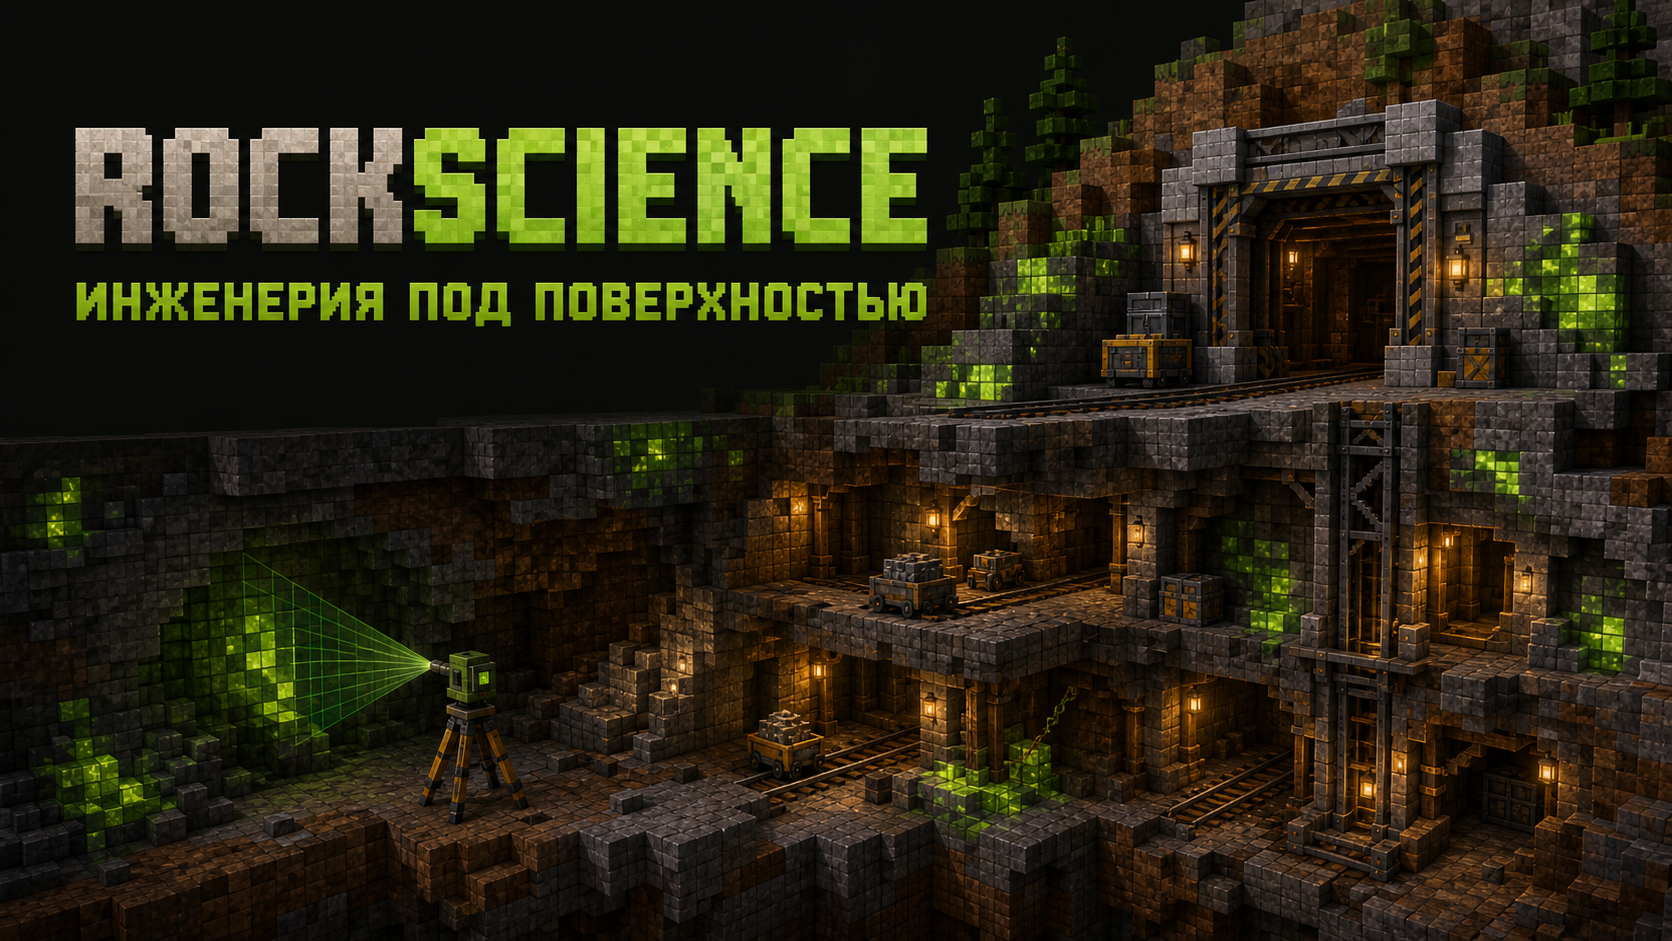
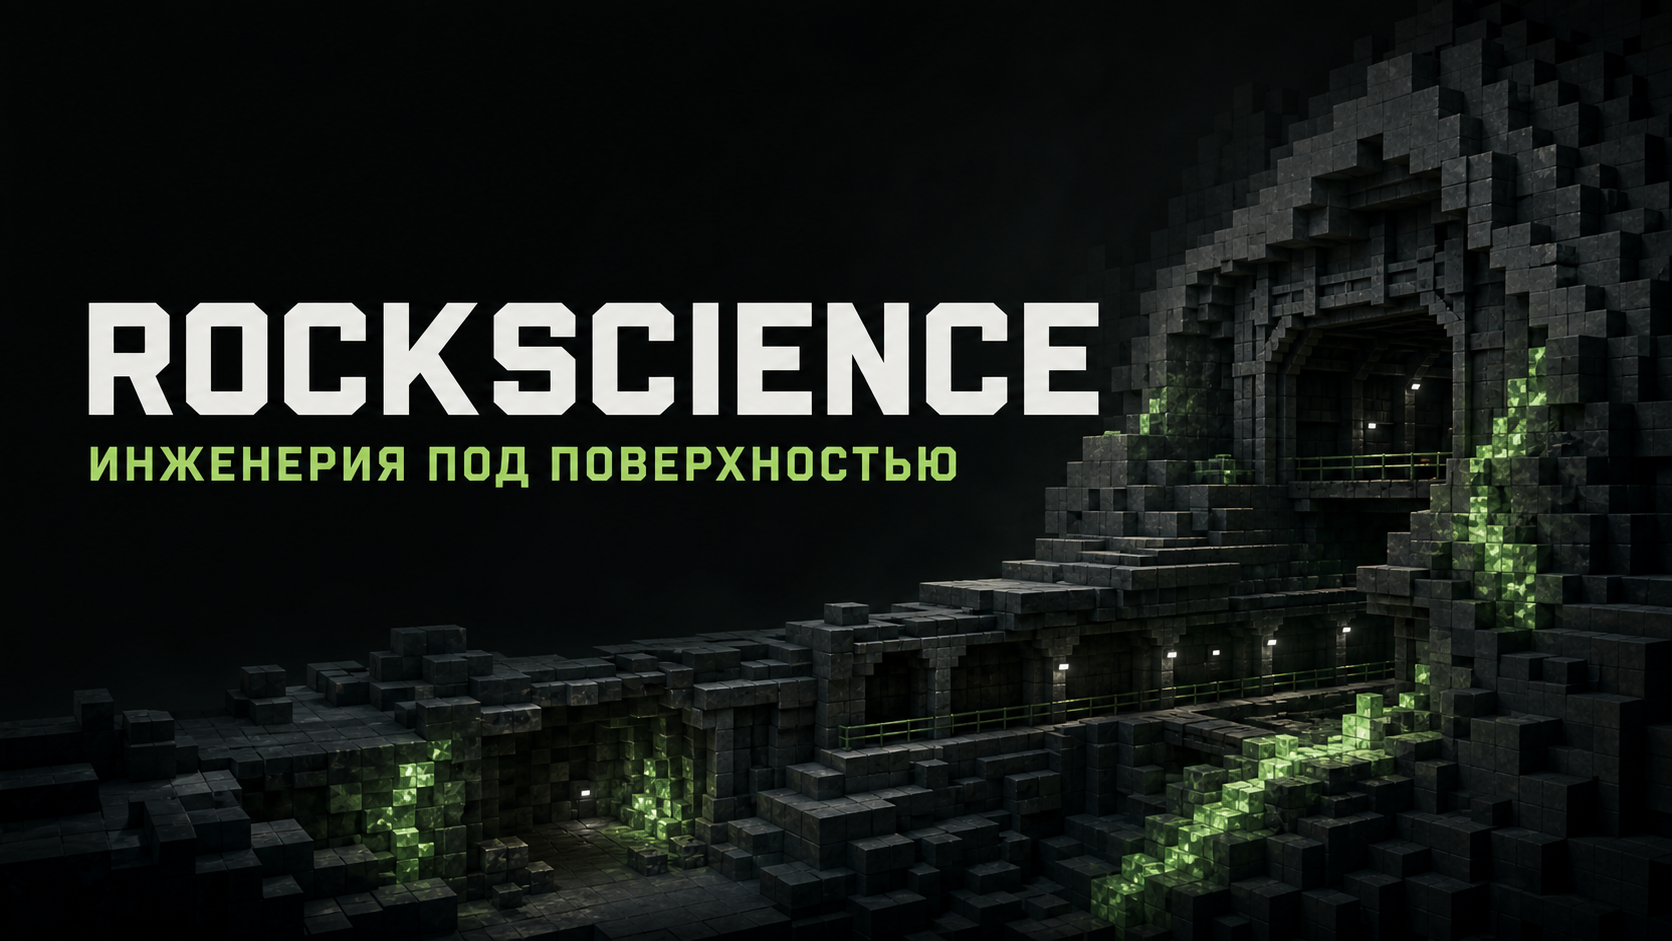
Refine RockScience dark interface

diff --git a/app/globals.css b/app/globals.css
@@ -332,3 +332,180 @@ footer { min-height: 128px; background: #171a15; color: #aeb5aa; border-top: 8px
   .tunnel-rings { width: 320px; height: 320px; }
   .tunnel-rings i { border-width: 8px; }
 }
+
+/* Dark refinement */
+:root {
+  --ink: #f0f4ee;
+  --coal: #090c0a;
+  --paper: #0d110f;
+  --acid: #9bdc68;
+  --grass: #78b84c;
+  --dirt: #2b2923;
+  --stone: #606861;
+  --pixel-shadow: #050706;
+  --line: rgba(226, 236, 228, .1);
+}
+
+body {
+  background-color: var(--paper);
+  background-image:
+    linear-gradient(90deg, rgba(255,255,255,.018) 1px, transparent 1px),
+    linear-gradient(rgba(255,255,255,.018) 1px, transparent 1px);
+  background-size: 40px 40px;
+  color: var(--ink);
+}
+
+.site-header {
+  height: 76px;
+  padding-inline: 5.5vw;
+  background: rgba(8, 11, 9, .78);
+  border-bottom: 1px solid rgba(255,255,255,.1);
+  box-shadow: 0 12px 36px rgba(0,0,0,.18);
+  backdrop-filter: blur(18px);
+}
+.brand { text-shadow: none; }
+.brand-mark { width: 27px; height: 27px; gap: 2px; }
+.brand-mark i { border-width: 0; background: #68716a; box-shadow: inset 1px 1px 0 rgba(255,255,255,.2), inset -1px -1px 0 rgba(0,0,0,.4); }
+.brand-mark i:nth-child(2) { background: var(--acid); box-shadow: inset 1px 1px 0 #d1f3b4, inset -1px -1px 0 #4b812e; }
+.site-header nav { gap: 12px; }
+.site-header nav a { color: #aab3ac; padding: 9px 13px; border: 1px solid transparent; border-radius: 4px; transition: color .2s, background .2s, border-color .2s; }
+.site-header nav a:hover, .site-header nav a:focus-visible { color: #fff; background: rgba(255,255,255,.045); border-color: rgba(255,255,255,.09); }
+.header-cta { padding: 11px 16px; border: 1px solid rgba(155,220,104,.45); border-radius: 4px; background: rgba(155,220,104,.1); color: #c6efa5; box-shadow: none; transition: background .2s, border-color .2s, transform .2s; }
+.header-cta:hover { background: rgba(155,220,104,.17); border-color: rgba(155,220,104,.7); transform: translateY(-1px); }
+
+.hero {
+  background-color: #080b09;
+  background-image:
+    radial-gradient(circle at 72% 38%, rgba(105,139,80,.13), transparent 25%),
+    linear-gradient(90deg, transparent 0 49.8%, rgba(255,255,255,.018) 49.8% 50.2%, transparent 50.2%),
+    linear-gradient(180deg, #101511 0%, #090c0a 66%, #070907 100%);
+  background-size: auto, 72px 72px, auto;
+  border-bottom: 1px solid rgba(255,255,255,.08);
+  box-shadow: none;
+}
+.hero::before {
+  height: 17%;
+  opacity: .48;
+  background: linear-gradient(90deg, #20231f 0 12.5%, #262a25 12.5% 25%, #1c201c 25% 37.5%, #2a2e29 37.5% 50%, #1e221e 50% 62.5%, #272b26 62.5% 75%, #1b1e1b 75% 87.5%, #242824 87.5%);
+  background-size: 160px 80px;
+  border-top: 1px solid rgba(155,220,104,.22);
+}
+.hero-grid { opacity: .08; background-size: 72px 72px; }
+.hero-copy { padding-top: 19vh; }
+.eyebrow { color: #a5afa6; }
+.eyebrow span { width: 8px; height: 8px; border-radius: 1px; box-shadow: 0 0 18px rgba(155,220,104,.7); }
+h1 { font-size: clamp(55px, 6.4vw, 104px); text-shadow: 0 10px 40px rgba(0,0,0,.55); }
+h1 em, h2 em { color: var(--acid); text-shadow: none; }
+.hero-lead {
+  color: #aeb7b0;
+  background: rgba(18, 24, 20, .62);
+  border: 1px solid rgba(255,255,255,.1);
+  border-radius: 6px;
+  box-shadow: 0 18px 60px rgba(0,0,0,.22);
+  backdrop-filter: blur(10px);
+  padding: 17px 19px;
+}
+.button { border: 1px solid transparent; border-radius: 4px; box-shadow: none; }
+.button:hover { transform: translateY(-2px); box-shadow: 0 12px 28px rgba(0,0,0,.28); }
+.button-primary { background: var(--acid); color: #0d1609; }
+.text-link { color: #bec7c0; background: transparent; padding: 10px 0; border: 0; }
+.text-link:hover { color: white; }
+.depth-label { padding: 10px 12px; background: rgba(12,16,13,.55); border: 1px solid rgba(255,255,255,.09); border-radius: 4px; text-shadow: none; color: #778078; backdrop-filter: blur(8px); }
+.coordinate { background: rgba(9,12,10,.7); border: 1px solid rgba(255,255,255,.08); border-radius: 3px; color: #778078; }
+.hero-foot { color: rgba(223,231,225,.45); text-shadow: none; }
+
+.rock-visual { filter: drop-shadow(25px 35px 45px rgba(0,0,0,.55)); opacity: .9; }
+.rock { border-width: 3px; border-color: #697269 #2b302c #242825 #555e56; }
+.rock-back { background-color: #343b35; box-shadow: -118px 58px 0 #272d28, -118px 58px 0 3px #1b1f1c, -59px 116px 0 #424a43, -59px 116px 0 3px #242824; }
+.rock-mid { background-color: #4a524b; box-shadow: 118px 58px 0 #2c332d, 118px 58px 0 3px #1b1e1b, -59px 58px 0 #343b35, -59px 58px 0 3px #1d211e; }
+.rock-front { background-color: #555f56; box-shadow: 118px 0 0 #282f29, 118px 0 0 3px #171a18, 59px -58px 0 #527b3a, 59px -58px 0 3px #28451c; }
+.rock-front::after { opacity: .8; filter: drop-shadow(0 0 8px rgba(155,220,104,.5)); }
+
+.section-pad { border-bottom: 1px solid var(--line); }
+.section-index { color: #6f7a72; }
+.manifesto, .approach, .contact {
+  background-color: #0e1210;
+  background-image: radial-gradient(circle at 15% 25%, rgba(155,220,104,.035), transparent 32%);
+}
+.manifesto-copy > div, .contact-action {
+  background: #151a17;
+  border: 1px solid rgba(255,255,255,.08);
+  border-radius: 7px;
+  box-shadow: 0 22px 70px rgba(0,0,0,.22);
+}
+.manifesto-copy p, .approach-intro > p:last-child, .contact-action > p { color: #98a39b; }
+.manifesto-copy p + p { color: #d8dfda; }
+.manifesto h2 em, .approach h2 em, .contact h2 em { color: var(--acid); }
+
+.services {
+  background-color: #0a0d0b;
+  background-image: linear-gradient(135deg, rgba(255,255,255,.012) 25%, transparent 25%), linear-gradient(315deg, rgba(255,255,255,.009) 25%, transparent 25%);
+  background-size: 40px 40px;
+}
+.service-list { gap: 16px; }
+.service-card, .service-card:first-child {
+  background: linear-gradient(145deg, #171c18, #111512);
+  border: 1px solid rgba(255,255,255,.09);
+  border-radius: 7px;
+  box-shadow: 0 18px 55px rgba(0,0,0,.2);
+  transition: transform .25s, border-color .25s, background .25s, box-shadow .25s;
+}
+.service-card:hover { background: linear-gradient(145deg, #1b251b, #121914); color: white; transform: translateY(-5px); border-color: rgba(155,220,104,.38); box-shadow: 0 26px 70px rgba(0,0,0,.35); }
+.service-number { color: #667068; }
+.service-symbol { background: #0c100d; border: 1px solid rgba(255,255,255,.08); border-radius: 5px; }
+.service-symbol span, .service-card:nth-child(2) .service-symbol span, .service-card:nth-child(3) .service-symbol span { border-width: 2px; border-color: #6b746d #333a35 #2a302c #59635b; background: #414942; box-shadow: inset 4px 4px 0 rgba(255,255,255,.08), inset -4px -4px 0 rgba(0,0,0,.2); }
+.service-symbol span:nth-child(2), .service-card:nth-child(2) .service-symbol span:nth-child(2), .service-card:nth-child(3) .service-symbol span:nth-child(2) { background: #2d342f; }
+.service-symbol span:nth-child(3), .service-card:nth-child(2) .service-symbol span:nth-child(3), .service-card:nth-child(3) .service-symbol span:nth-child(3) { background: var(--acid); border-color: #c9efad #557f39 #42672c #a3d87d; box-shadow: 0 0 20px rgba(155,220,104,.24); }
+.service-card > p { color: #8f9991; }
+.service-card:hover > p { color: #acb6ae; }
+.tags span { color: #949e96; border: 1px solid rgba(255,255,255,.08); border-radius: 3px; background: rgba(255,255,255,.025); box-shadow: none; }
+.service-card:hover .tags span { border-color: rgba(155,220,104,.2); background: rgba(155,220,104,.06); }
+
+.stages {
+  background: #101411;
+  border: 1px solid rgba(255,255,255,.08);
+  border-radius: 7px;
+  box-shadow: 0 22px 70px rgba(0,0,0,.18);
+  padding: 8px 14px;
+}
+.stages li {
+  min-height: 136px;
+  background: transparent;
+  border: 0;
+  border-bottom: 1px solid rgba(255,255,255,.08);
+  margin: 0;
+  padding: 27px 16px;
+}
+.stages li:last-child { border-bottom: 0; }
+.stages li:hover { transform: translateX(4px); background: rgba(155,220,104,.025); }
+.stage-index, .stage-arrow { color: var(--acid); }
+.stages p { color: #8e9991; }
+
+.safety { background: #090c0a; border-bottom: 1px solid var(--line); }
+.safety-visual { background-color: #0e1310; background-image: linear-gradient(90deg, rgba(255,255,255,.015) 50%, transparent 50%), linear-gradient(rgba(0,0,0,.12) 50%, transparent 50%); }
+.tunnel-rings i { border-width: 7px; border-color: #343b35; box-shadow: inset 0 0 0 2px #1b201c, 14px 18px 30px rgba(0,0,0,.25); }
+.tunnel-rings i:nth-child(5) { background: var(--acid); box-shadow: 0 0 0 5px #355525, 0 0 80px rgba(155,220,104,.36); }
+.safety-copy > p:nth-of-type(2) { color: #909b92; }
+.safety-copy ul { border-top: 0; }
+.safety-copy li { margin: 8px 0; padding: 17px 14px; border: 1px solid rgba(255,255,255,.08); border-radius: 4px; background: #101411; box-shadow: none; color: #c1c9c3; }
+
+.contact-action { padding: 28px; }
+.button-dark { background: var(--acid); color: #0c1409; }
+.contact-action small { color: #7c887f; }
+footer { min-height: 112px; background: #080b09; color: #6f7972; border-top: 1px solid rgba(255,255,255,.07); box-shadow: none; }
+
+@media (max-width: 900px) {
+  .service-list { gap: 12px; }
+  .service-card { min-height: 360px; }
+}
+
+@media (max-width: 600px) {
+  .site-header { height: 66px; padding-inline: 20px; }
+  .header-cta { border-color: rgba(155,220,104,.35); }
+  h1 { text-shadow: 0 10px 30px rgba(0,0,0,.55); }
+  .hero-lead { border-radius: 4px; }
+  .rock { border-width: 2px; }
+  .rock-back { box-shadow: -62px 31px 0 #272d28, -62px 31px 0 2px #1b1f1c, -31px 62px 0 #424a43, -31px 62px 0 2px #242824; }
+  .rock-mid { box-shadow: 62px 31px 0 #2c332d, 62px 31px 0 2px #1b1e1b, -31px 31px 0 #343b35, -31px 31px 0 2px #1d211e; }
+  .rock-front { box-shadow: 62px 0 0 #282f29, 62px 0 0 2px #171a18, 31px -31px 0 #527b3a, 31px -31px 0 2px #28451c; }
+}
